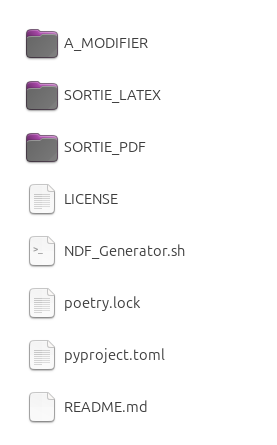
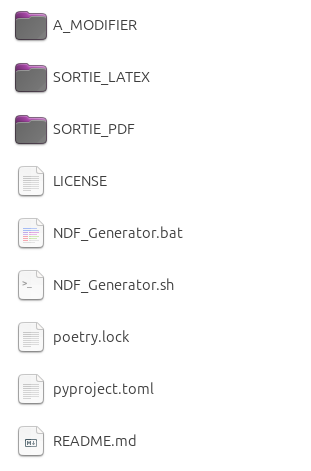
docs: add windows version in README.md

diff --git a/README.md b/README.md
@@ -14,7 +14,7 @@ Le script est entièrement documenté en convention Google. Je me suis assuré d
 ## Installation
 ### Prérequis
 - Python 3.12
-- Curl
+- Curl (pour Linux et Mac/OS)
 - Logiciel de lecture de fichiers xlsx (OnlyOffice par exemple)
 
 ### Configuration initiale
@@ -26,10 +26,10 @@ Le script est entièrement documenté en convention Google. Je me suis assuré d
 
 2. Lancer une première fois le script d'export correspondant à votre système d'exploitation pour créer les dossiers de sorties et vérifier qu'il n'y a pas d'erreur :
 - **Linux/MacOS** :
-    - Clic droit sur `NDF_GENERATOR.sh`
+    - Clic droit sur `NDF_Generator.sh`
     - Cliquer sur "Exécuter" ou équivalent
 - **Windows**
-
+    - Double-clic sur `NDF_Generator.bat`
 
 ## Utilisation
 ### La structure
